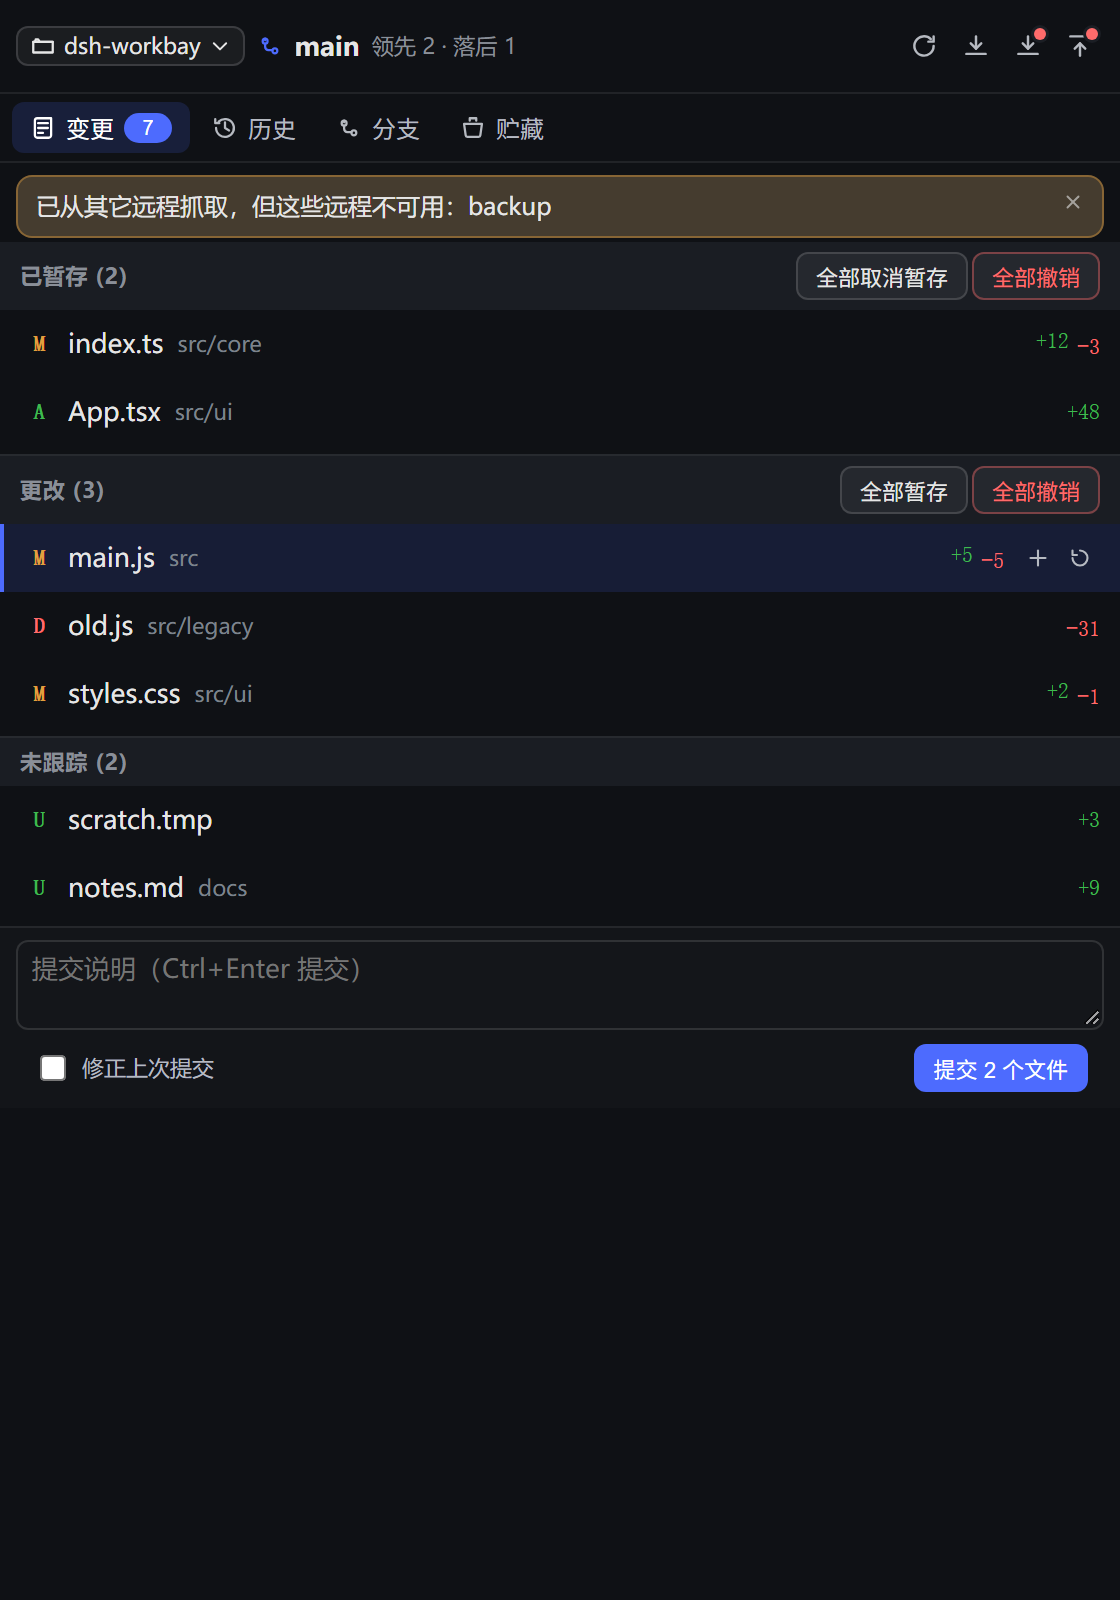
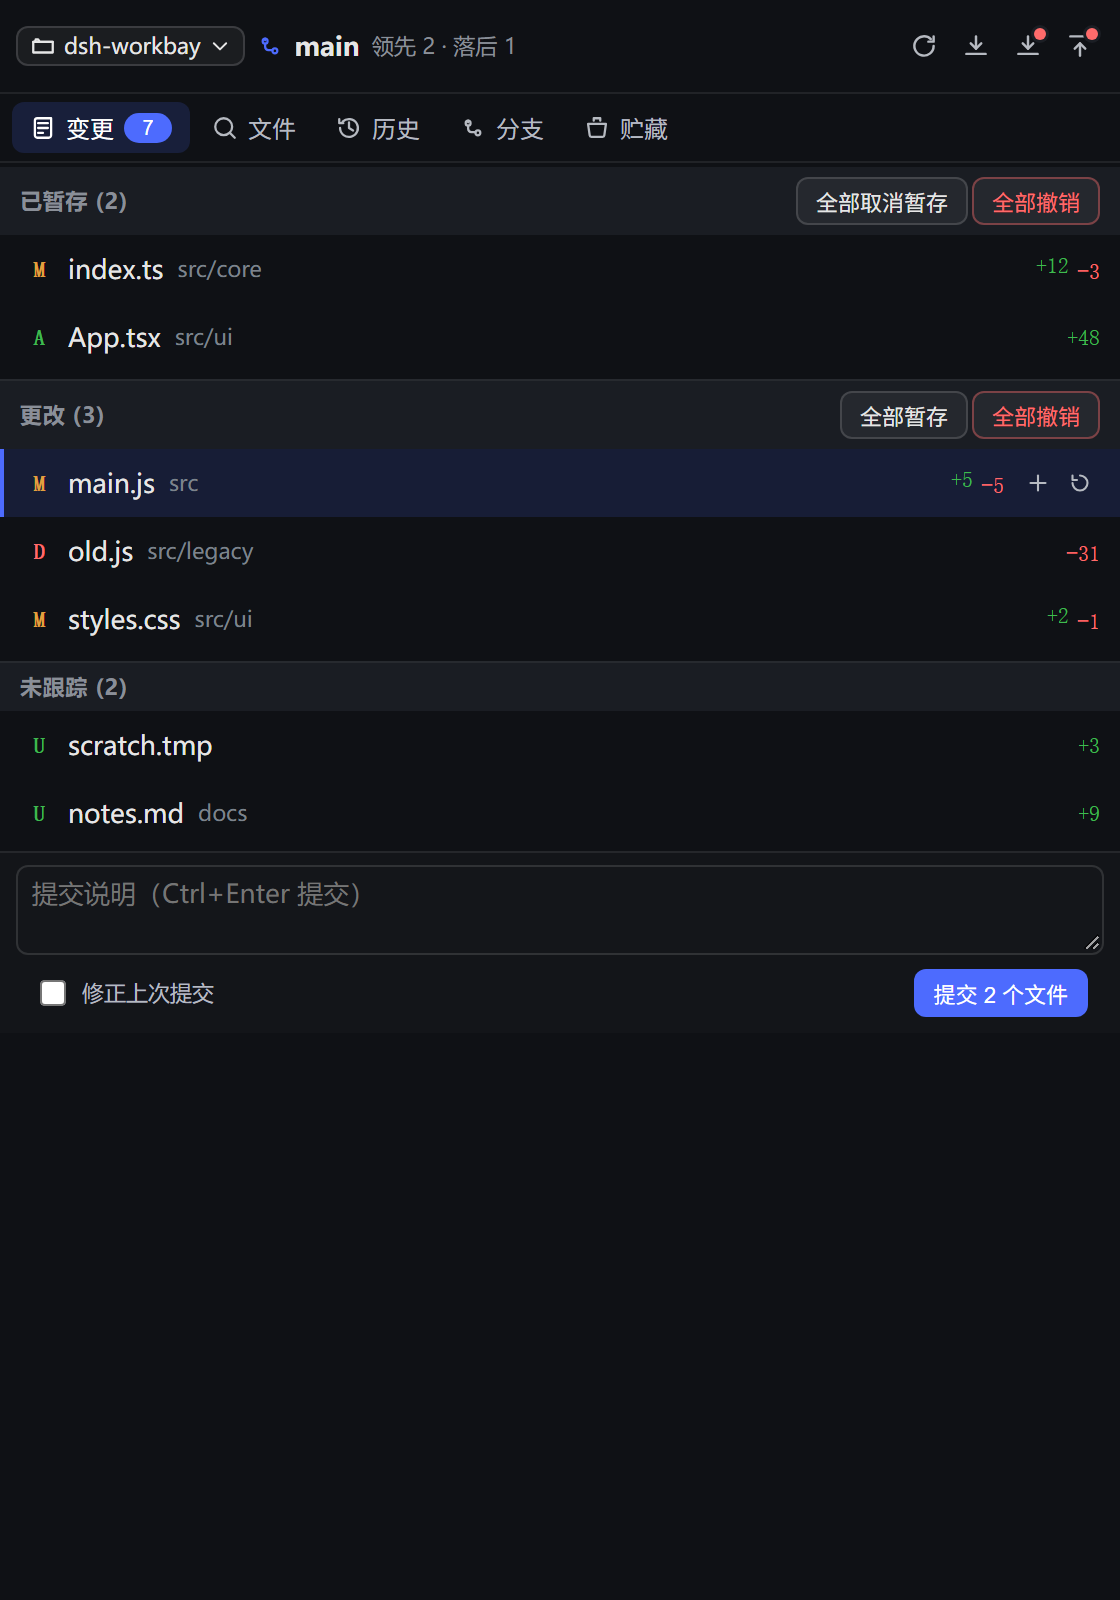
feat(source-control): a folder that is not a repository still opens files
The "这个目录不是 Git 仓库" panel replaced the whole content area whenever the
snapshot failed, so selecting a file showed nothing at all. Not being a repository
says nothing about whether a file can be read: the notice now only appears while
nothing is selected, and selecting a file opens it in the source pane as usual.
Diff and history stay unavailable, which is honest - there is no repository.

Changed region(s): [[0.0, 0.0625, 1.0, 0.6875], [0.8125, 0.5938, 1.0, 0.6875]]

diff --git a/packages/source-control/src/client.js b/packages/source-control/src/client.js
@@ -4781,7 +4781,9 @@ function Page(props) {
             E('div', { className: 'scw-emptyTitle' }, t('empty.noRoot')),
             E('div', { className: 'scw-emptyHint' }, t('empty.chooseRoot')))
         }
-        if (snapshotError !== null) {
+        /* 不是 git 仓库时，只有「没选文件」才该看到那句提示：选了文件就正常看源码，
+           没有 git 不代表文件不能读。 */
+        if (snapshotError !== null && selectedRel === null) {
           const notRepo = snapshotError !== null && snapshotError !== undefined && snapshotError.code === 'not-a-repo'
           return E('div', { className: 'scw-empty' },
             E('div', { className: 'scw-emptyTitle' }, notRepo ? t('empty.noRepo') : t('state.failed')),
